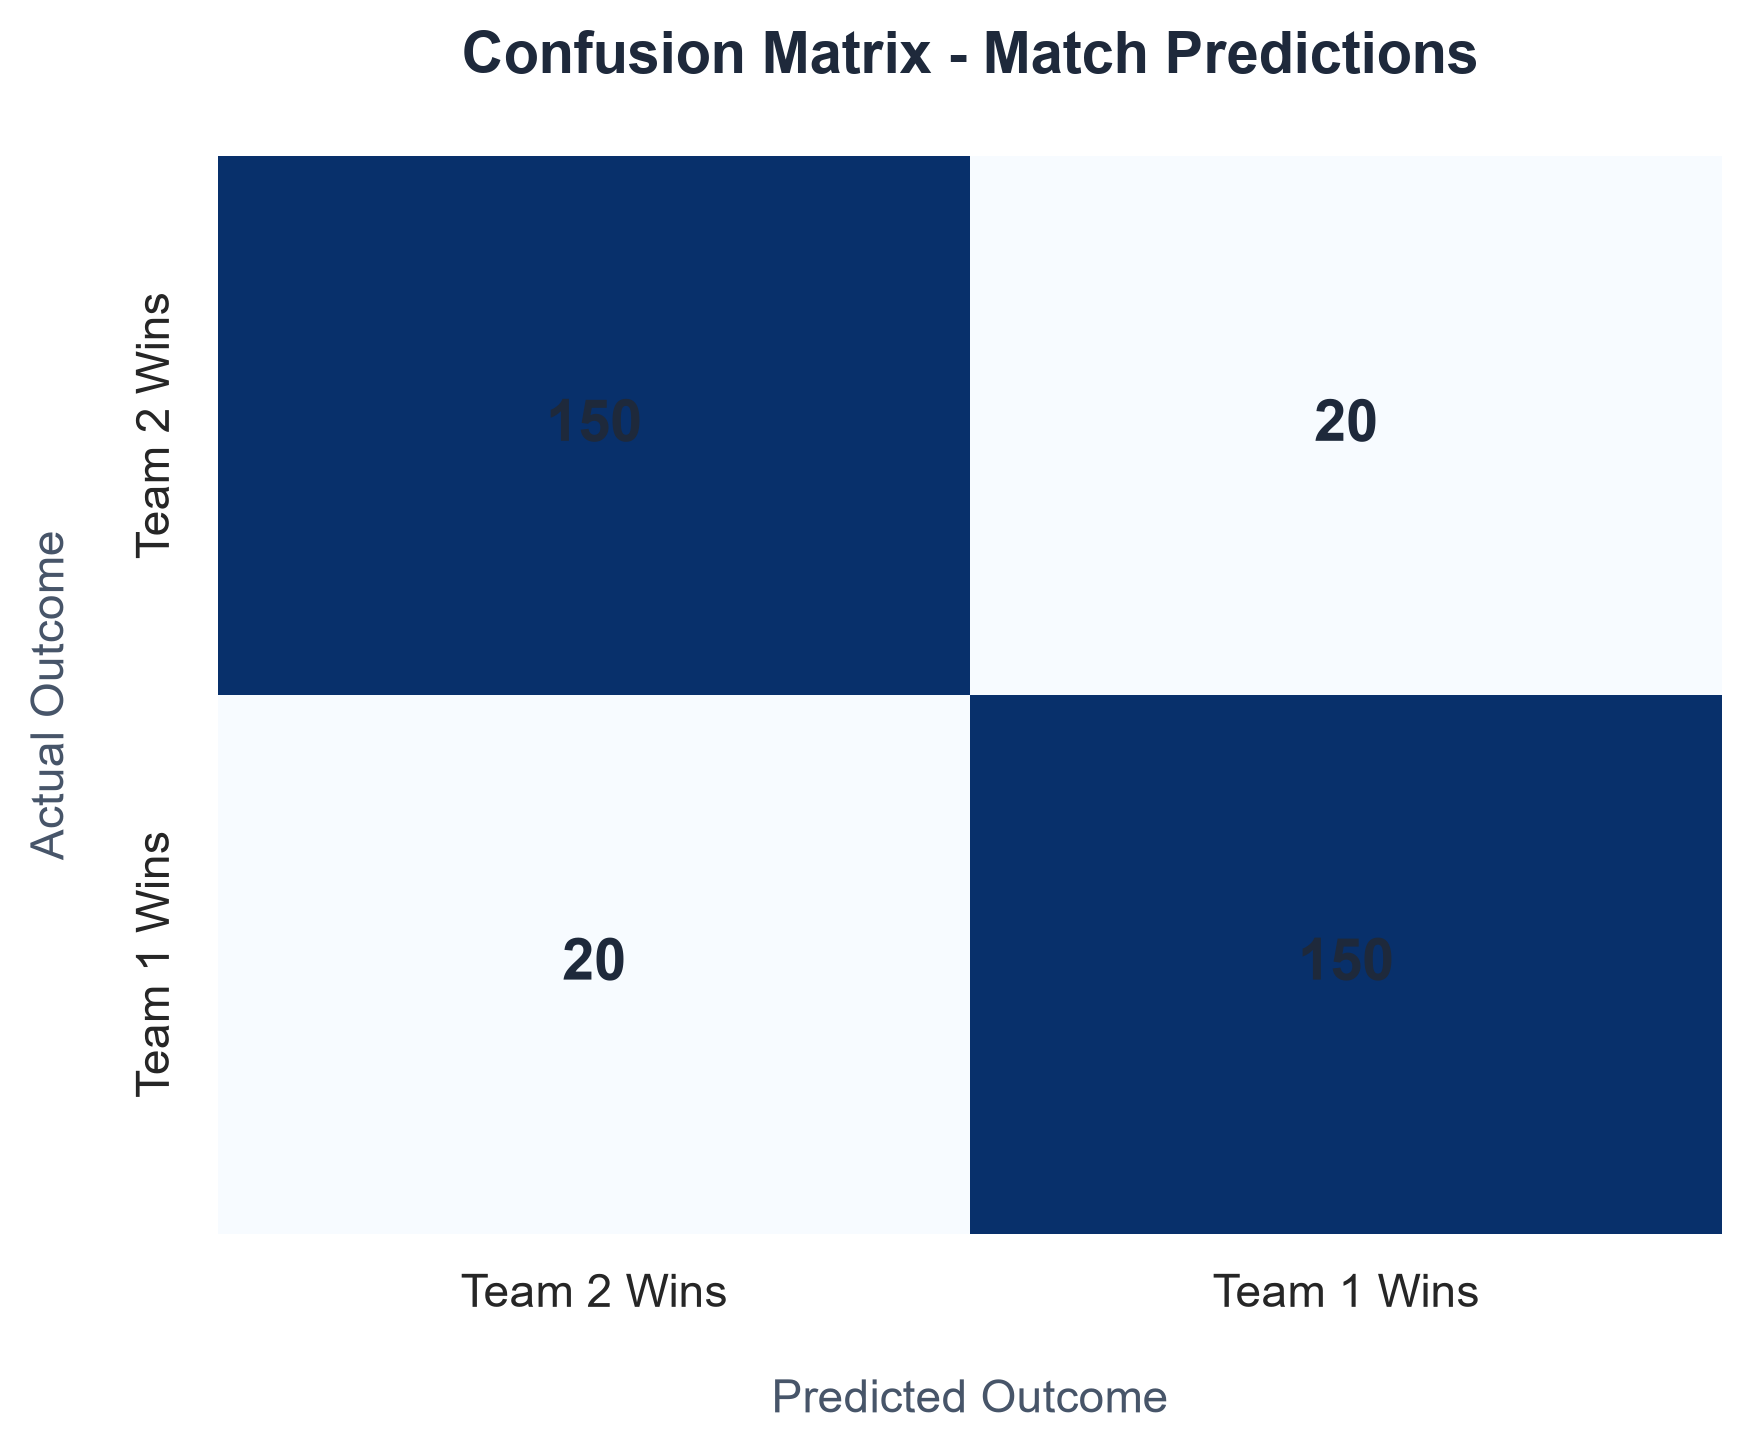
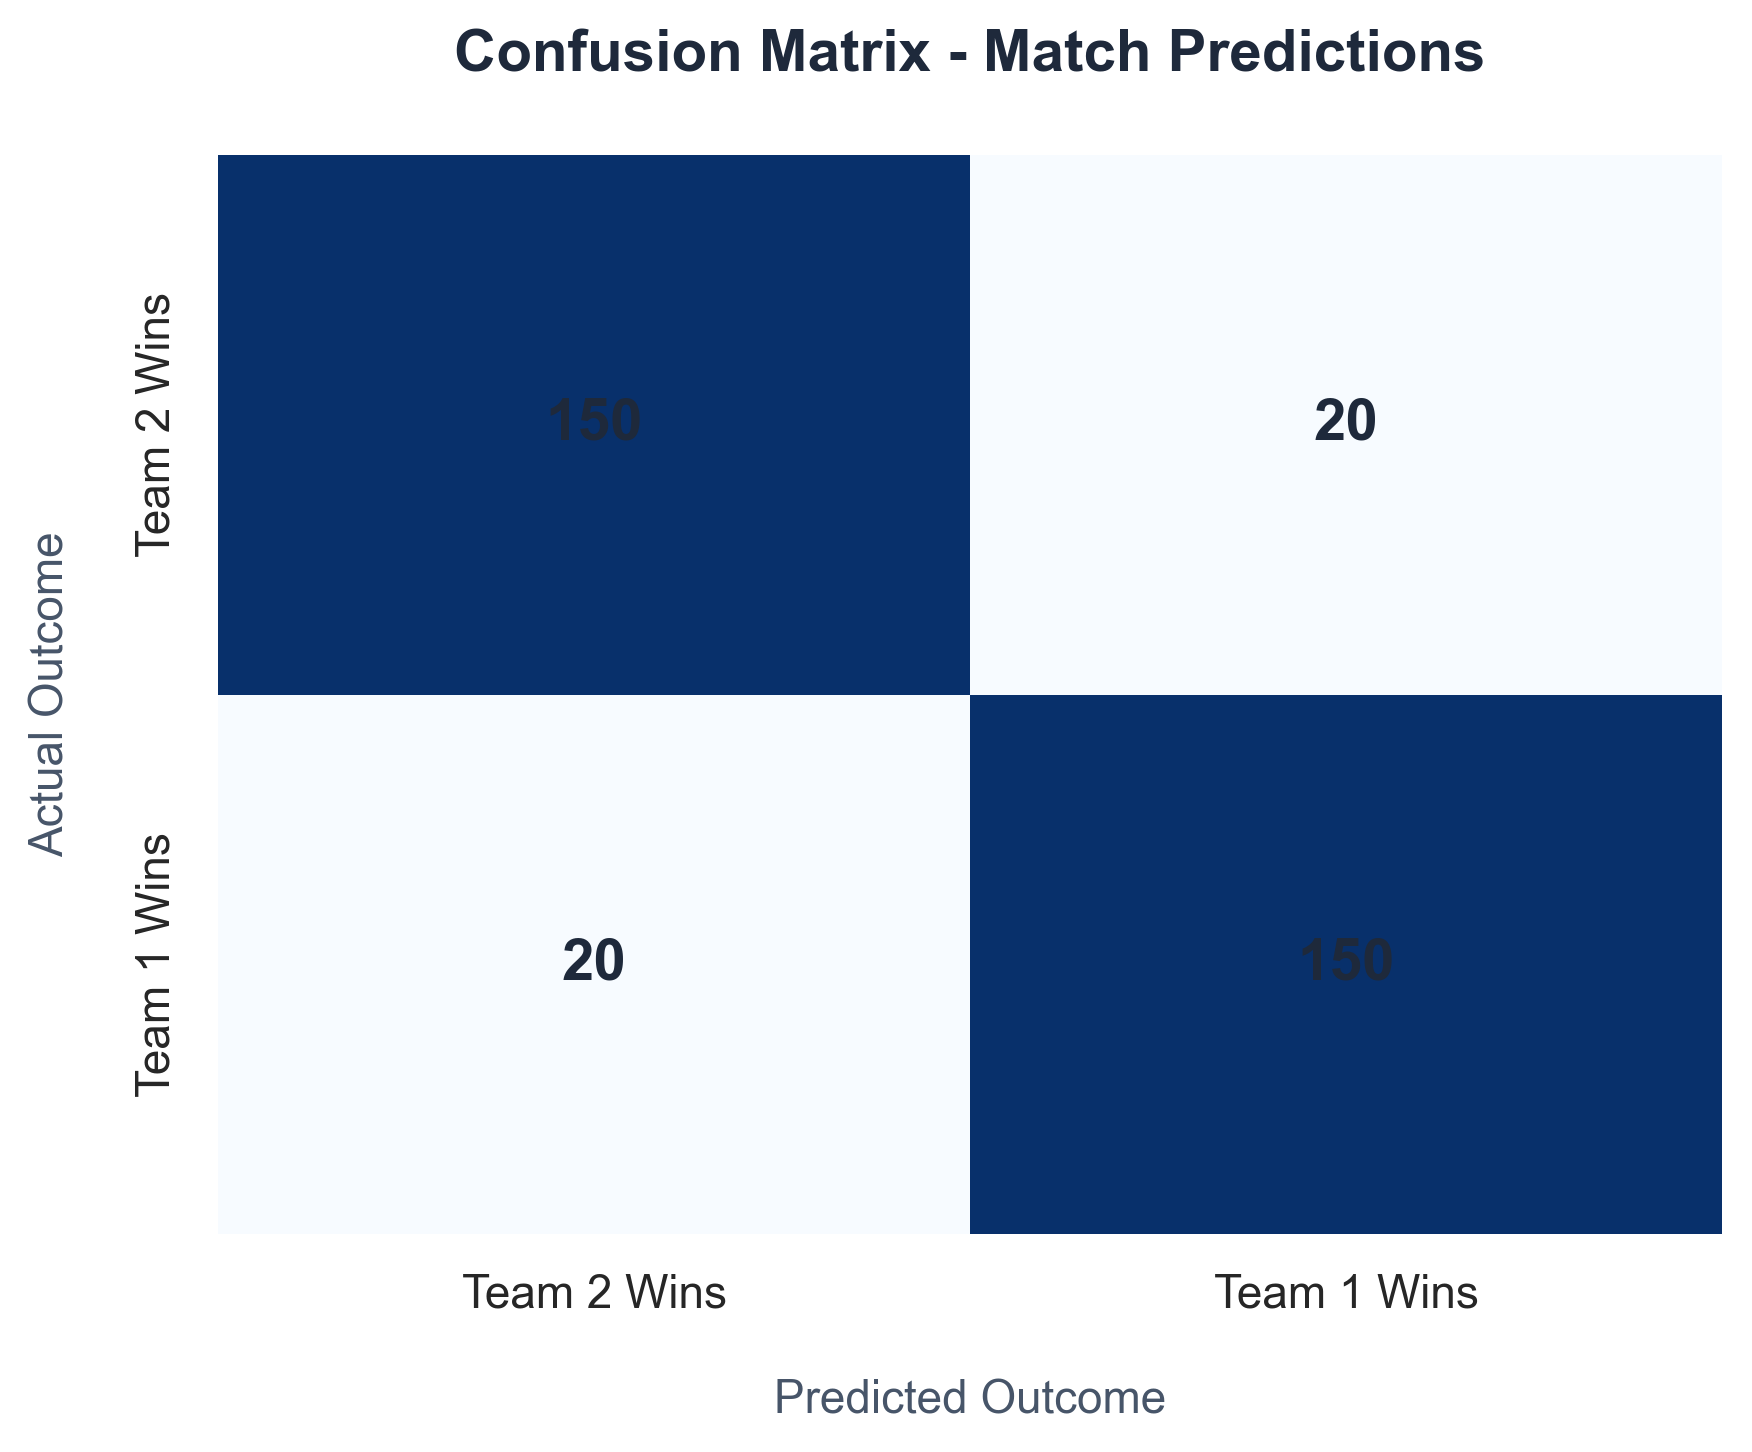
ipl prediction

diff --git a/frontend/app.py b/frontend/app.py
@@ -55,6 +55,10 @@ st.markdown("""
         border-radius: 1rem;
         margin-top: 1.5rem;
     }
+    .prediction-card h3,
+    .prediction-card h3 strong {
+        color: #000000 !important;
+    }
 </style>
 """, unsafe_allow_html=True)
 
@@ -171,7 +175,6 @@ with st.sidebar:
         """)
         
     st.divider()
-    st.caption("Developed forvivekdake09/third-umpire-ipl-prediction")
 
 # ----------------- MAIN INTERFACE -----------------
 st.markdown('<div class="main-header">Third Umpire: IPL Prediction System</div>', unsafe_allow_html=True)
